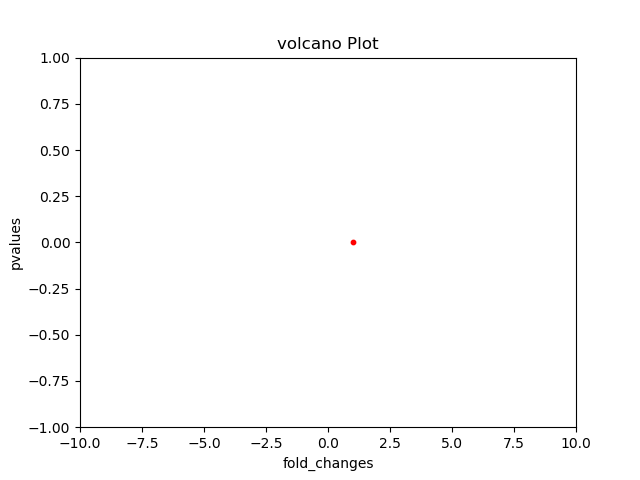
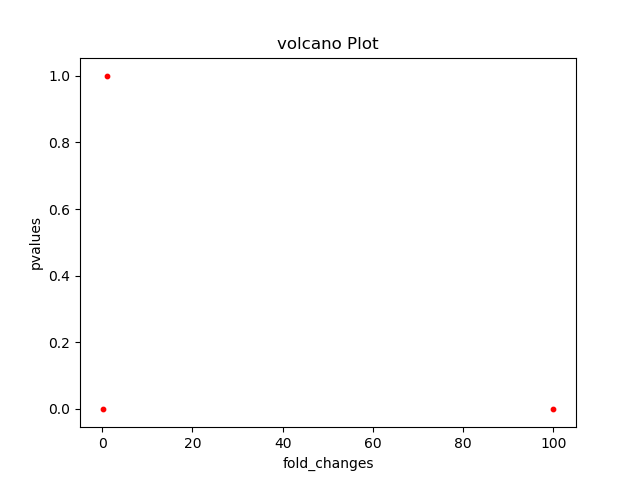
Fixed pvalues

diff --git a/PvalueCalculator.py b/PvalueCalculator.py
@@ -2,43 +2,27 @@ import numpy as np
 import scipy
 from scipy.stats import chi2
 
-epsilon = 0.0000001
-
-
-def calc_poisson_product(values):
-    vector = np.zeros((values.shape[0]))
-    for i in range(values.shape[0]):
-        print(i)
-        mu = np.average(values[i, :])
-        product = np.product([scipy.stats.poisson.pmf(v, mu) for v in values[i]])
-        if product == 0:
-            product = epsilon
-        vector[i] = product
-
-    return vector
-
 
 class PvalueCalculator:
     def __init__(self, leftCondition, rightCondition):
         self.leftCondition = leftCondition
         self.rightCondition = rightCondition
 
-    def calc_p_value(self):
-        log_likelihood_ratio = self.calc_log_likelihood_ratio()
-        value_for_chisquare = -2 * log_likelihood_ratio
+    def calc_p_values(self):
+        num_genes = self.leftCondition.repetitions.shape[0]
+        p_values = np.zeros(num_genes)
 
-        # The Pvalue will  be 1 when chi2.cdf(value_for_chisquare, 1) is zero, that happens when the value_for_chisquare < 0.
-        p_value = chi2.sf(value_for_chisquare, 1)
-        # p_value = 1- chi2.cdf(value_for_chisquare, 1)
-        return p_value
+        for gene_row in range(num_genes):
+            x = self.leftCondition.repetitions[gene_row, :]
+            y = self.rightCondition.repetitions[gene_row, :]
+            p_values[gene_row] = scipy.stats.chisquare(x, y, ddof=1)[1]
 
-    def calc_log_likelihood_ratio(self):
-        left_repetitions = self.leftCondition.repetitions
-        right_repetitions = self.rightCondition.repetitions
+        return p_values
 
-        left_product = calc_poisson_product(left_repetitions)
-        right_product = calc_poisson_product(right_repetitions)
-        all_repetitions = np.concatenate((left_repetitions, right_repetitions), axis=1)
-        all_product = calc_poisson_product(all_repetitions)
 
-        return np.log(all_product / (left_product * right_product))
+if __name__ == '__main__':
+    x = np.array([1, 1, 3, 2]).astype(float)
+    y = np.array([0, 1, 1, 2]).astype(float)
+    a = scipy.stats.chisquare(x, y, ddof=1)
+
+    print(a.pvalue)

diff --git a/fold_change.py b/fold_change.py
@@ -19,7 +19,7 @@ def run():
 
     test_condition_set = experiment_results.create_test_condition_set(indeces, threshold)
 
-    ratio_moc, ratio_trn = test_condition_set.calculate_fold_change()
+    ratio_moc, ratio_trn = test_condition_set.calculate_fold_changes()
 
     show_results(experiment_results.gene_names, ratio_moc, ratio_trn)
 
@@ -31,10 +31,11 @@ def create_volcano():
 
     condition_pair_set = experiment_results.create_condition_pair_set(condition_pair_set_indeces, threshold)
 
-    pValues = condition_pair_set.get_p_value()
-    fold_changes = condition_pair_set.calculate_fold_change()
+    pValues = condition_pair_set.get_p_values()
+    fold_changes = condition_pair_set.calculate_fold_changes()
 
-    volcano_plot(fold_changes, -np.log(pValues))
+    minus_log_pvalues = -np.log(pValues)
+    volcano_plot(fold_changes, pValues)
 
 
 if __name__ == '__main__':

diff --git a/ConditionPairSet.py b/ConditionPairSet.py
@@ -18,11 +18,11 @@ class ConditionPairSet:
     def __init__(self, conditions):
         self.conditions = conditions
 
-    def get_p_value(self):
+    def get_p_values(self):
         calculator_pValue = PvalueCalculator(self.conditions[0], self.conditions[1])
-        return calculator_pValue.calc_p_value()
+        return calculator_pValue.calc_p_values()
 
-    def calculate_fold_change(self):
+    def calculate_fold_changes(self):
         calculator_fold_change = FoldChangeCalculator(self.conditions[0], self.conditions[1])
         return calculator_fold_change.calculate_fold_change()
 

diff --git a/ShowResults.py b/ShowResults.py
@@ -74,8 +74,8 @@ def volcano_plot(fold_changes, pValues):
 
     # ax1.legend(loc='lower right')
 
-    ax1.set_xlim(-10,10)
-    ax1.set_ylim(-1,1)
+    # ax1.set_xlim(-10,10)
+    # ax1.set_ylim(-1,1)
 
     plt.title("volcano Plot")
     plt.xlabel("fold_changes")
